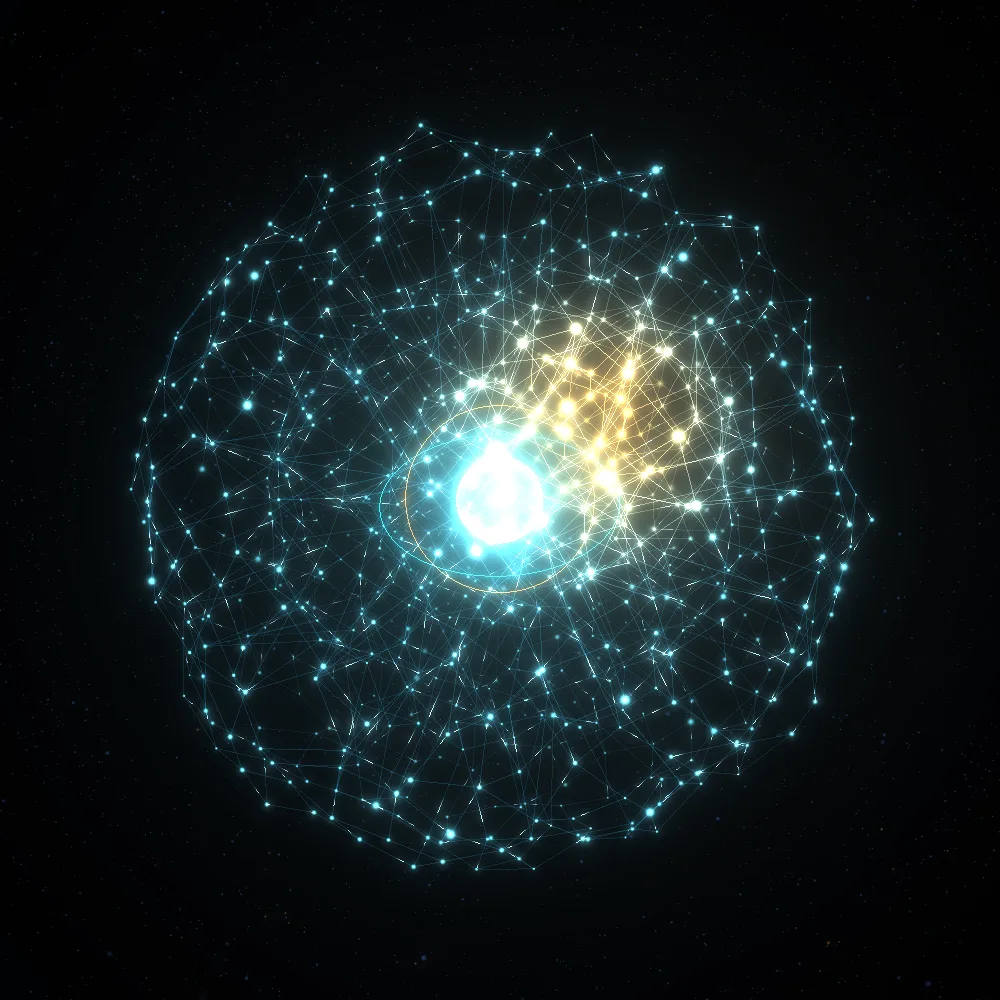
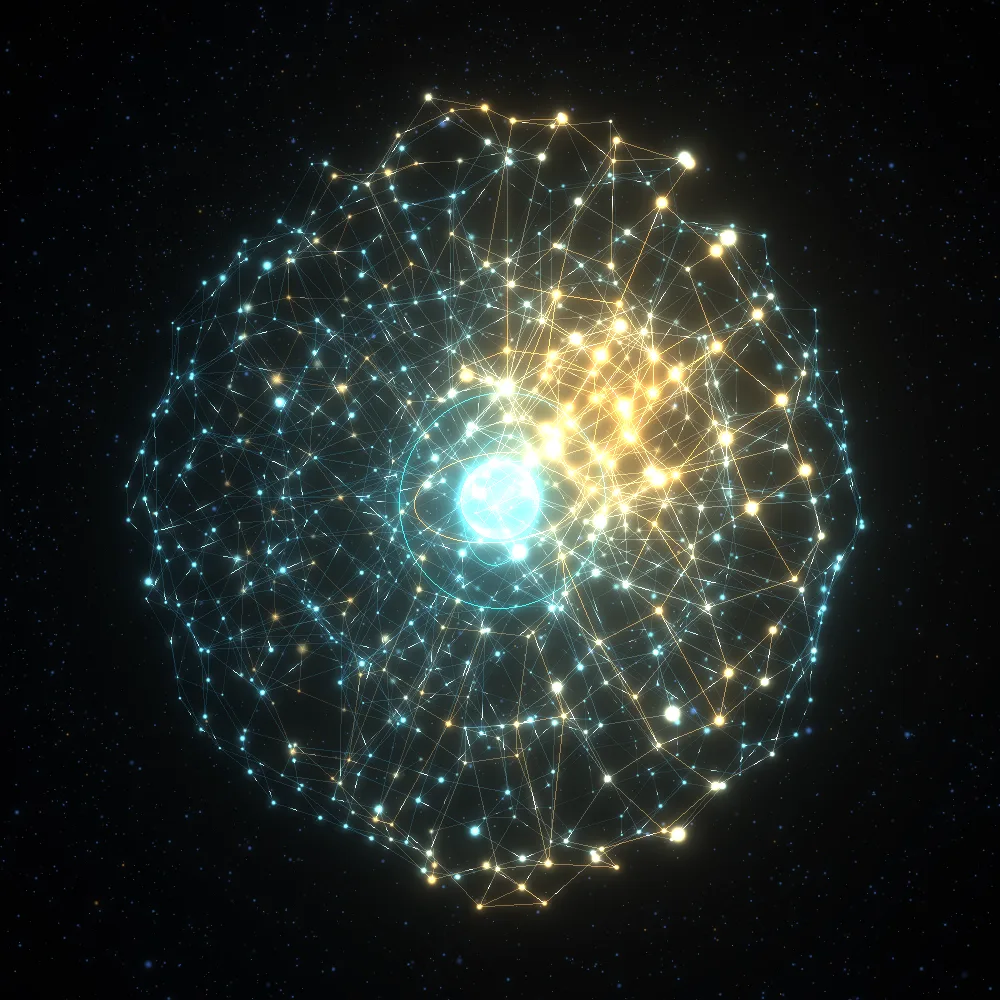
style: 휠·마우스 반응의 과노출을 줄이고 포스터·OG 이미지 갱신
Claude-Session: https://claude.ai/code/session_01KHnMz2SQ8CTgWcbkeDqo96

Changed region(s): [[0.124, 0.093, 0.868, 0.93]]

diff --git a/src/components/hero/scene.ts b/src/components/hero/scene.ts
@@ -303,7 +303,7 @@ export function createHeroScene(canvas: HTMLCanvasElement, opts: HeroSceneOption
     core.scale.setScalar(a * (1 - 0.4 * dom) * (1 + 0.06 * Math.sin(time * 2.2)));
     (glow.material as THREE.SpriteMaterial).opacity = 0.26 + 0.08 * Math.sin(time * 2.2);
     for (const r of rings) r.ring.rotation.set(r.bx + time * r.s, r.by + time * r.s * 0.7, 0);
-    if (bloom) bloom.strength = 0.8 + energy * 0.8;
+    if (bloom) bloom.strength = 0.8 + energy * 0.3;
 
     // 이름표 좌표
     group.updateMatrixWorld();
@@ -338,7 +338,7 @@ export function createHeroScene(canvas: HTMLCanvasElement, opts: HeroSceneOption
       travel += d;
       if (travel > 0.22) {
         travel = 0;
-        ripple(hitDirection(nx, ny), 0.9);
+        ripple(hitDirection(nx, ny), 0.6);
       }
     },
     setProgress(value) {
@@ -347,14 +347,14 @@ export function createHeroScene(canvas: HTMLCanvasElement, opts: HeroSceneOption
     impulse(e, spin) {
       energy = Math.min(1.3, energy + Math.max(0, e));
       spinVel = clamp(spinVel + spin, -5, 5);
-      ripple(group.worldToLocal(camera.position.clone()).normalize(), 1.2);
+      ripple(group.worldToLocal(camera.position.clone()).normalize(), 0.7);
     },
     shockAt(nx, ny) {
       const dir = hitDirection(nx, ny);
       if (!dir) return;
       U.uShockDir.value.copy(dir);
       U.uShockT.value = 0;
-      shockAmp = 1.9;
+      shockAmp = 1.5;
       nextShock = time + 3.4;
     },
     resize(w, h) {

diff --git a/src/components/hero/shaders.ts b/src/components/hero/shaders.ts
@@ -44,7 +44,7 @@ export const NODE_VERT = /* glsl */ `
   void main() {
     vec4 mv = place();
     gl_Position = projectionMatrix * mv;
-    gl_PointSize = min(aSize * uPx * (1.0 + vHot * 1.6 + vWave * 3.0 + uEnergy * 0.8) / -mv.z, uPx * 2.6);
+    gl_PointSize = min(aSize * uPx * (1.0 + vHot * 1.6 + vWave * 1.4 + uEnergy * 0.4) / -mv.z, uPx * 2.6);
   }
 `;
 
@@ -57,7 +57,7 @@ export const NODE_FRAG = /* glsl */ `
     float c = 1.0 - smoothstep(0.06, 0.5, d);
     float w = clamp(vHot + vWave * 1.5, 0.0, 1.0);
     vec3 col = mix(vec3(0.42, 0.9, 1.0), vec3(1.0, 0.7, 0.3), w);
-    gl_FragColor = vec4(col * (0.5 + c * 0.9 + vWave * 1.6), c * vFade * uDim);
+    gl_FragColor = vec4(col * (0.5 + c * 0.9 + vWave * 0.6), c * vFade * uDim);
   }
 `;
 
@@ -80,7 +80,7 @@ export const EDGE_FRAG = /* glsl */ `
     float pulse = smoothstep(0.8, 1.0, s) * step(0.001, vSpeed);
     float w = clamp(vHot + vWave * 1.5, 0.0, 1.0);
     vec3 col = mix(vec3(0.16, 0.62, 0.85), vec3(1.0, 0.66, 0.26), w);
-    float a = (0.2 + vHot * 0.7 + vWave * 1.2 + uEnergy * 0.3) * vFade * uDim;
+    float a = (0.2 + vHot * 0.7 + vWave * 0.55 + uEnergy * 0.18) * vFade * uDim;
     gl_FragColor = vec4(col * a + vec3(0.8, 1.0, 1.0) * pulse * vFade * uDim, 1.0);
   }
 `;
